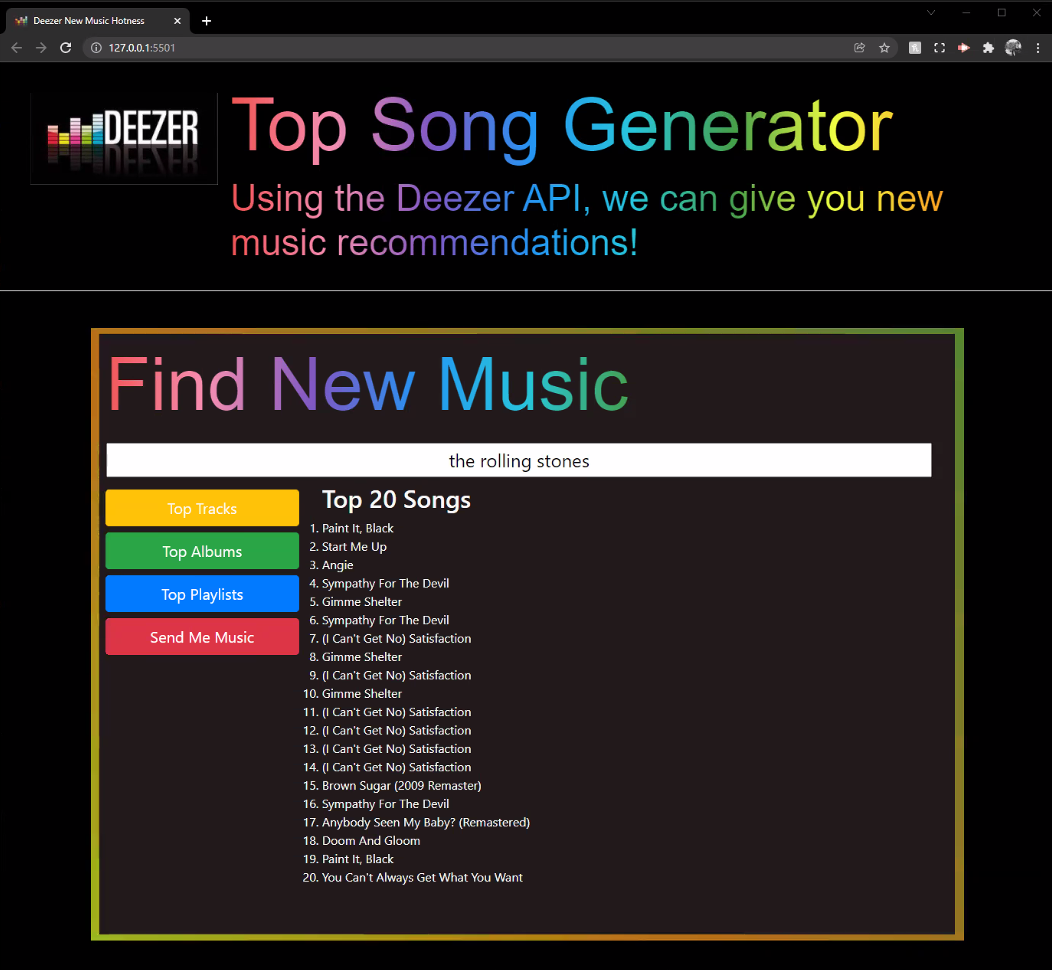
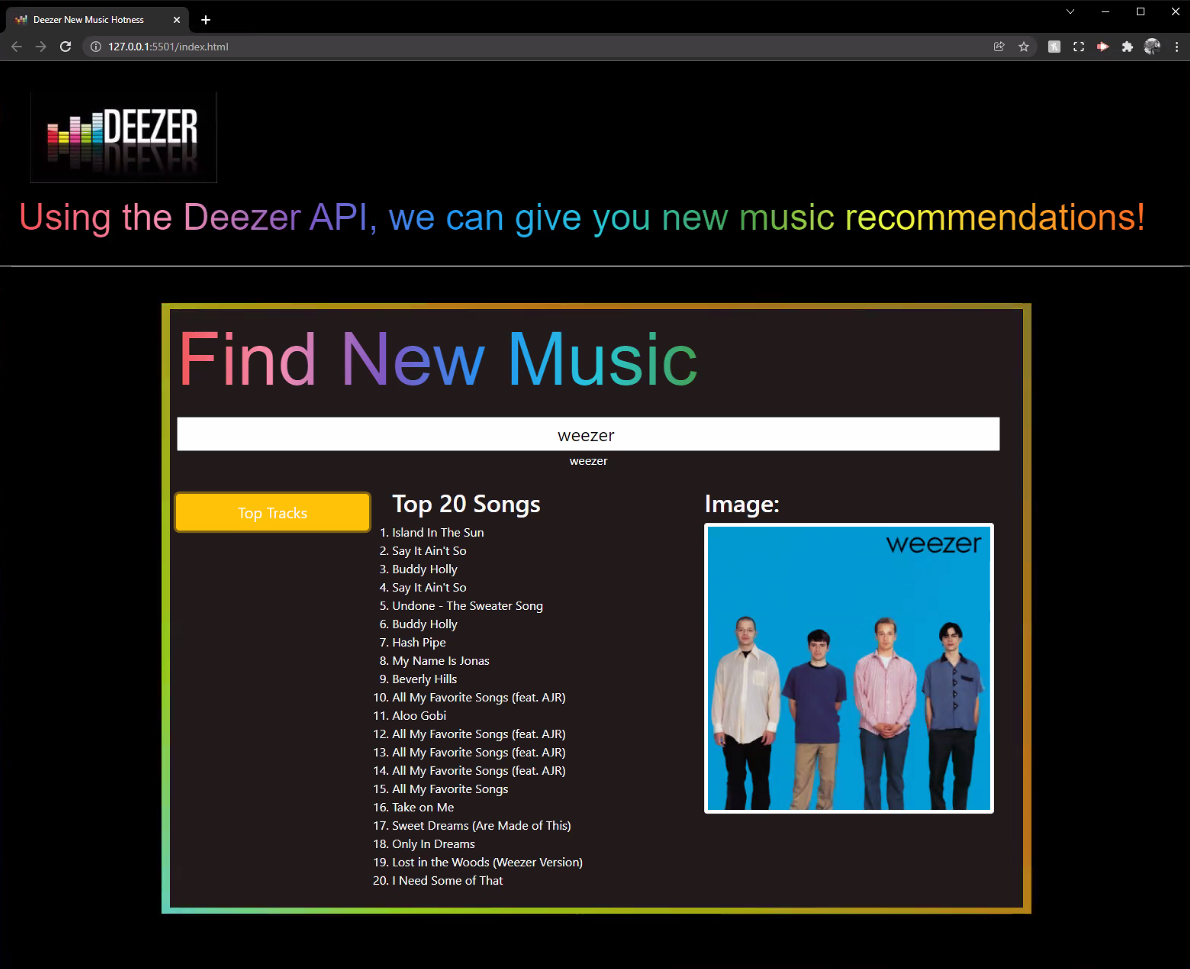
Updated README and starting image function

diff --git a/index.html b/index.html
@@ -15,11 +15,20 @@
 </head>
 
 <body>
-  <header class="p-4 mb-5 d-flex header-dark text-light border-bottom border-light border-thick align-items">
-    <img src="./master/assets/deezer-logo.jpg" style="height: 120px;" class="m-3">
-    <div class="d-flex flex-column">
-      <h1 class>Top Song Generator</h1>
-      <h4>Using the Deezer API, we can give you new music recommendations!</h4>
+  <header class="p-4 mb-5 header-dark text-light border-bottom border-light border-thick row-align-items d-flex">
+    <div>
+      <div class="align-items">
+        <img src="./master/assets/deezer-logo.jpg"  style="height: 120px;" class="m-3"> 
+        <h1>Top Song Generator</h1> 
+      </div>
+      <div class="d-flex flex-column">
+        <div>
+        
+      </div>
+    </div>
+      <div>
+        <h4>Using the Deezer API, we can give you new music recommendations!</h4>
+      </div>
     </div>
   </header>
 
@@ -30,7 +39,7 @@
 
       <h1 class="text-light text-left p-2">Find New Music</h1>      
       <div class="justify-content-center row align-items pl-4 col-12">
-      <input class="textboxId col-md-12" type = "text" id = "input" placeholder="Enter an Artist">
+      <input class="textboxId col-md-12" type = "text" id = "input" placeholder="Enter an Artist then click the Top Tracks button">
       <p id="searchbartext"></p>
     </div>  
 
@@ -38,9 +47,9 @@
 
         <div class="col-12 col-md-3 col-xl-3">
           <div id="top-tracks" class="my-2">
-          <button id="top-tracks-btn" type="button" class="btn btn-warning btn-hover btn-lg btn-block text-light">Top Tracks</button>
+          <button id="top-tracks-btn" type="button" class="btn btn-warning btn-hover btn-lg btn-block text-light ">Top Tracks</button>
           </div>
-          <div id="top-albums" class="my-2">
+          <!-- <div id="top-albums" class="my-2">
           <button id="top-albums-btn" type="button" class="btn btn-success btn-hover btn-lg btn-block">Top Albums</button>
           </div>
           <div id="top-playlists" class="my-2">
@@ -48,12 +57,20 @@
           </div>
           <div id="send-me-music" class ="my-2">
           <button id="send-me-music-btn" type="button" class ="btn btn-danger btn-hover btn-lg btn-block">Send Me Music</button>
-          </div>
+          </div> -->
         </div>
 
-        <div class="col-12 col-md-9 col-xl-9">
-          <h2 class="subtitle text-light"> Top 20 Songs <span id="music-search-term"></span></h2>
-          <ol id="music-container" class="list-group text-light"></ol>
+        <div class="col-12 col-md-9 col-xl-9 row align-items">
+          <div class="col-md-6 col-xl-6">
+            <h2 class="subtitle text-light"> Top 20 Songs <span id="music-search-term"></span></h2>
+            <ol id="music-container" class="list-group text-light"></ol>
+          </div>
+          <div class="col-md-4 col-xl-6">
+            <h2 class="subtitle text-light"> Image: <span id="image-search"></span></h2>
+            <div id="img-container">
+              <img class="img-thumbnail" src="https://m.media-amazon.com/images/I/71nYpz++VCL._SL1400_.jpg" >
+            </div>
+          </div>          
         </div>
 
         <!-- <div class="container">

diff --git a/script.js b/script.js
@@ -9,15 +9,14 @@ var containerEl = document.getElementById("music-container");
 var containerhEl = document.createElement("h1");
 var inputEl = document.getElementById("input"); 
 var pEl = document.getElementById("searchbartext");
+var elements = [pEl];
 
 
 
 // var keyDownContainerEl = $('.container');
 
 topTracksButtonEl.on('click', function() {
-    console.log('I was clicked to generate new music...');
-    alert('Type on the search bar to look up the latest hits on music charts!');
-
+    
     function reset() {
         while (containerEl.firstChild) {
             containerEl.removeChild(containerEl.firstChild);
@@ -81,7 +80,11 @@ topPlaylistsButtonEl.on('click', function() {
 //     pEl.innerHTML = "<font class=\"subtitle text-light\">You typed: " + text + " </font>"    
 // });
 
-inputEl.onkeydown = function () {
+inputEl.onkeydown = function (event) {
     pEl.innerHTML = inputEl.value;
 }
 
+// inputEl.addEventListener('keydown', function(event) {
+//     var key = event.key.toLowerCase();
+//     elements.forEach(display => display.textContent += key)      
+// })

diff --git a/style.css b/style.css
@@ -46,6 +46,10 @@ body {
     position: relative;
     overflow: hidden;
   }
+
+  #searchbartext {
+    color: white;
+  }
   
   .header-dark {
     background-color: black;
@@ -88,6 +92,13 @@ body {
     text-align: center;
     
   } 
+
+  #top-tracks-btn {
+    
+   
+
+  
+  }
 
   /*Begin shimmer code*/
   

diff --git a/README.md b/README.md
@@ -12,16 +12,14 @@ SO THAT I can create a strong password that provides greater security
 
 ```
 1. When I enter a valid music artist name in the search bar and click top tracks, it displays the top 20 tracks from that artist.
-2. When I enter a valid music artist name in the search bar and click top albums, it displays the top 20 albums from that artist.
-3. When I enter a valid music artist name in the search bar and click top playlists, it displays the top 20 playlists from that artist.
-4. When I have a result that I want to save, I click "Send Me Music" and I have the results sent to my phone.
+2. When I enter a valid music artist name in the search bar and click top tracks, it displays an image.
 ```
 
 ## Mock-Up
 
 The following image shows the web application's appearance and functionality:
 
-![The New Music Generator application displays a search bar where I enter an artist and click a  button to generate a top 20 list of tracks, albums or playlists from deezer music platform. There is another button to send my search results to my phone, using the Twilio platform.](./master/assets/project-image.png)
+![The New Music Generator application displays a search bar where I enter an artist and click a  button to generate a top 20 list of tracks and display an image search result from Google.](./master/assets/project-image.png)
 
 This layout is designed for desktop viewing, but optimized for mobile. 
 
@@ -39,8 +37,6 @@ Image Source for Deezer Flavicon Logo: https://www.favicon.cc/?action=icon&file_
 
 Deezer official API documentation: https://developers.deezer.com/api/search#connections
 
-Rapid API documentation for Deezer: https://rapidapi.com/deezerdevs/api/deezer-1
+Rapid API documentation for Deezer Track Search: https://rapidapi.com/deezerdevs/api/deezer-1
 
-Twilio official API documentation: https://www.twilio.com/docs/api
-
-Rapid API documentation for Twilio: https://rapidapi.com/twilio/api/twilio-sms
+Rapid API documentation for Google Image Search: https://rapidapi.com/Glavier/api/google-image-search1/
